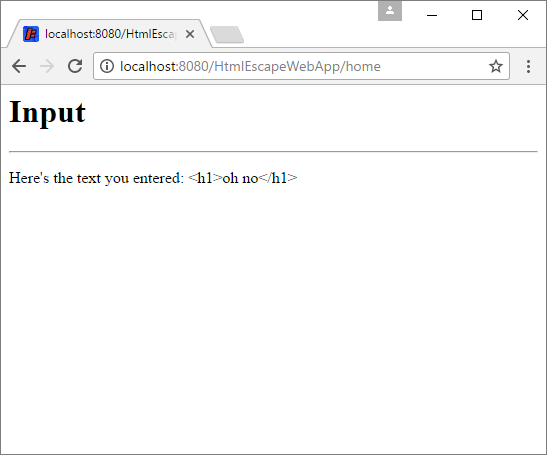
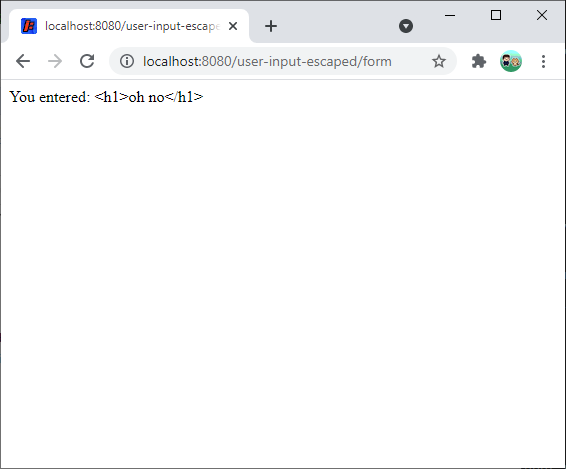
escaped user input example

Changed region(s): [[0.0, 0.0, 1.0, 1.0], [0.0, 0.3692, 0.5283, 0.4]]

diff --git a/examples/java-server/java-server-example-projects/user-input-escaped/src/main/webapp/index.html b/examples/java-server/java-server-example-projects/user-input-escaped/src/main/webapp/index.html
@@ -1,0 +1,14 @@
+<!DOCTYPE html>
+<html>
+  <head>
+    <title>Form</title>
+  </head>
+  <body>
+    <h1>Enter some input:</h1>
+    <form action="/user-input-escaped/form" method="POST">
+      <input type="text" name="data" value="<h1>oh no</h1>">
+      <br><br>
+      <input type="submit" value="Submit">
+    </form>
+  </body>
+</html>

diff --git a/examples/java-server/java-server-example-projects/user-input-escaped/src/main/java/io/happycoding/servlets/FormServlet.java b/examples/java-server/java-server-example-projects/user-input-escaped/src/main/java/io/happycoding/servlets/FormServlet.java
@@ -1,0 +1,24 @@
+package io.happycoding.servlets;
+
+import java.io.IOException;
+import jakarta.servlet.annotation.WebServlet;
+import jakarta.servlet.http.HttpServlet;
+import jakarta.servlet.http.HttpServletRequest;
+import jakarta.servlet.http.HttpServletResponse;
+import org.apache.commons.text.StringEscapeUtils;
+
+@WebServlet("/form")
+public class FormServlet extends HttpServlet {
+
+  @Override
+  public void doPost(HttpServletRequest request, HttpServletResponse response)
+      throws IOException {
+
+    String userInput = request.getParameter("data");
+    String escapedUserInput = StringEscapeUtils.escapeHtml4(userInput);
+
+    response.setContentType("text/html");
+    response.getWriter().println("You entered: " + escapedUserInput);
+    
+  }
+}

diff --git a/examples/java-server/java-server-example-projects/user-input-escaped/README.md b/examples/java-server/java-server-example-projects/user-input-escaped/README.md
@@ -1,0 +1,11 @@
+This project uses a form to send a POST request to a servlet.
+
+It uses the Apache Commons Text library to escape the user input.
+
+You can compile this into a directory and a `.war` file by executing this command:
+
+```
+mvn package
+```
+
+Learn more at [HappyCoding.io/tutorials/java-server/libraries](https://happycoding.io/tutorials/java-server/libraries).
